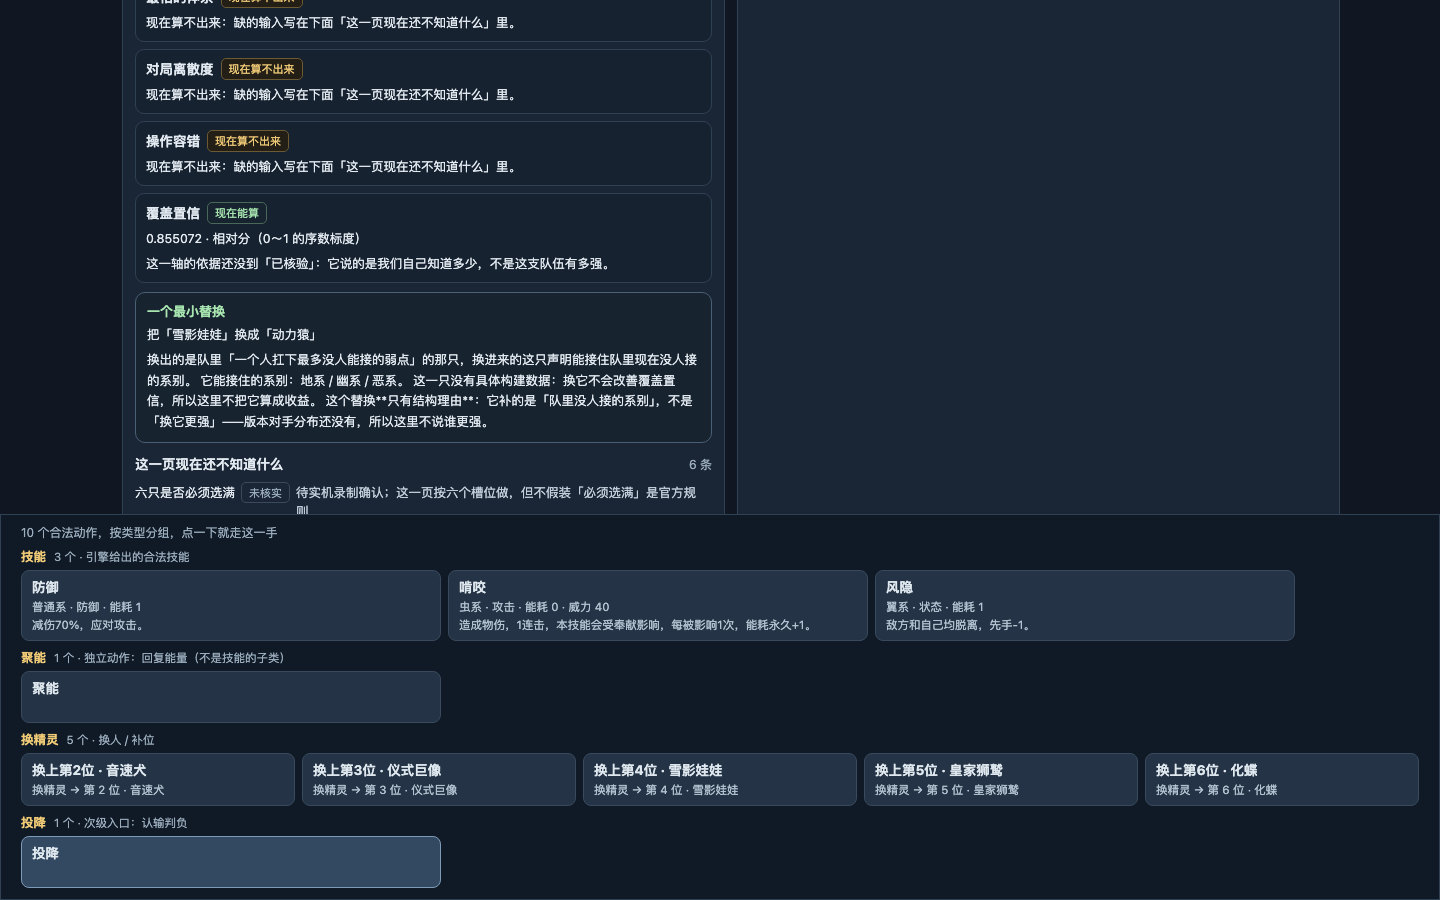
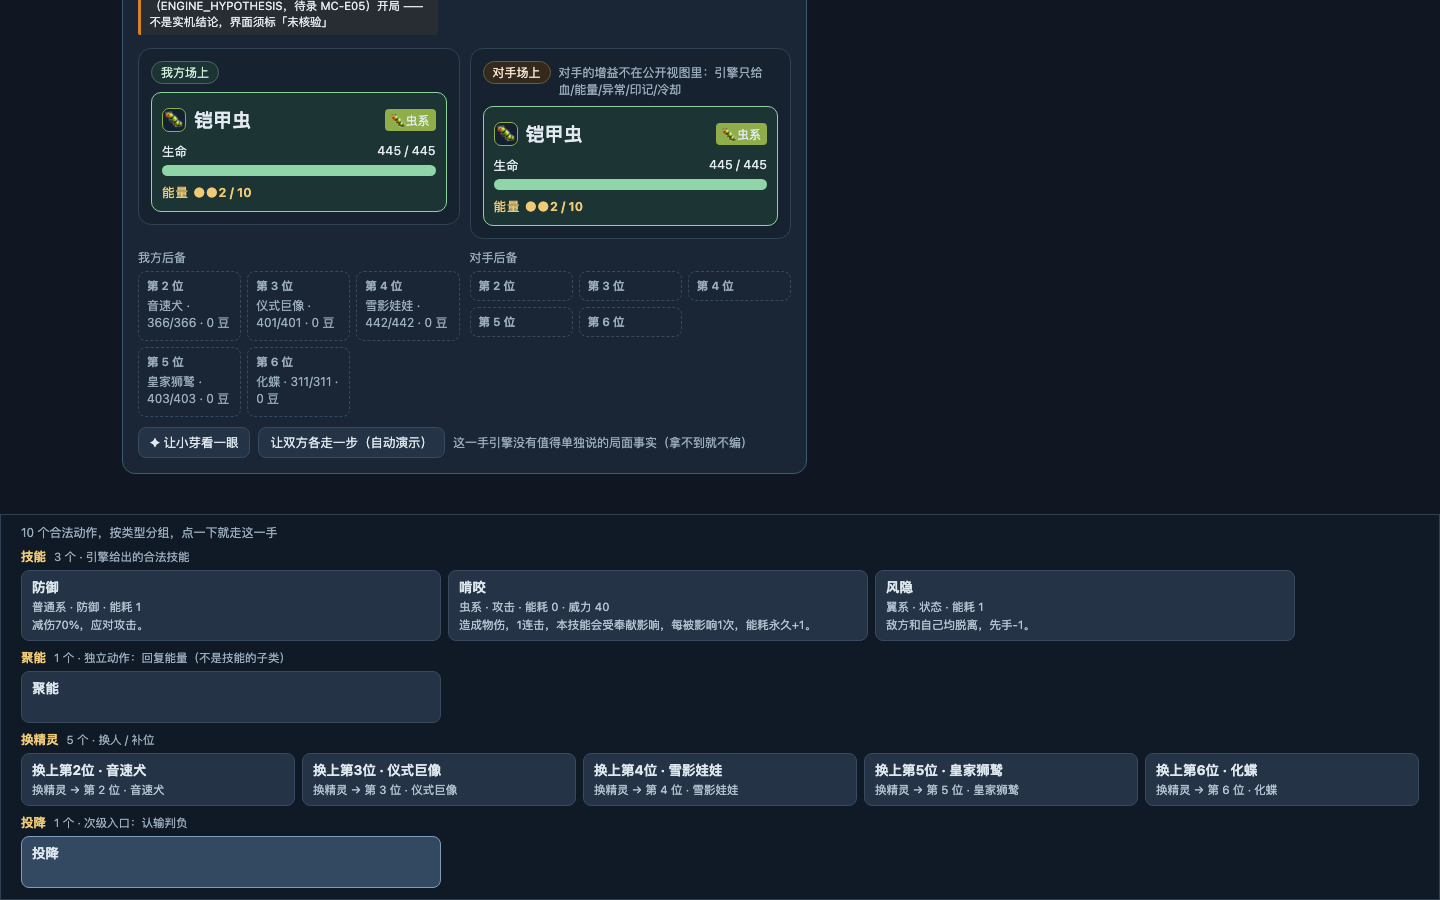
perf(p0): 对局进行中收起选阵容工作面 + 把战斗页 UI 规格写进断点文件
- roco.js: render() 里 workshop.hidden = busy —— 六槽 + 候选池比战场还高，
  这是「1440×900 一屏看不到完整战场」的直接原因；真机复验 11/11 + 9/9
- 状态文档新增 §C6.46：把人类给的**战斗页 UI 规格**（战场优先 / 技能为主区 + 聚能与换宠独立按钮 /
  对手信息按 public view / Coach 短提示 / 390 不裁切）记成**待办契约**，下一轮唯一焦点

Changed region(s): [[0.0938, 0.0, 0.5312, 0.56]]

diff --git a/src/client/roco.js b/src/client/roco.js
@@ -780,6 +780,14 @@ function render() {
   // （窄屏上它是贴底的，不收起会与动作坞抢同一条底边。）
   const pvpBar = $('standard-pvp-bar');
   if (pvpBar) pvpBar.hidden = busy && !view?.battle_result;
+  // 战斗优先（2026-09-22 人类 P0 战斗页规格）：一局进行中，**选阵容面**（六槽工作台）
+  // 整块收起 —— 它占的高度比战场还大。要看阵容时用「重选阵容」那一行把它叫回来。
+  const workshop = $('team-workshop');
+  if (workshop) workshop.hidden = busy;
+  // 战斗页顶部的规则/置信度徽记仍在页头（那是「这一局的规则口径」），
+  // 但**大段规则与证据**在战斗时不该占主视线：它们本来就在开发者抽屉里。
+  const modeLine = $('mode-line');
+  if (modeLine) modeLine.dataset.rocoCompact = busy ? 'yes' : 'no';
   $('log-panel').hidden = !busy;
   $('action-panel').hidden = !busy;
   $('result-panel').hidden = !view?.battle_result;
